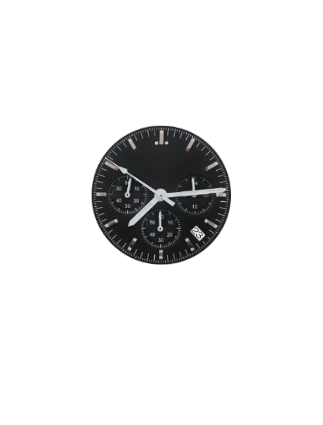
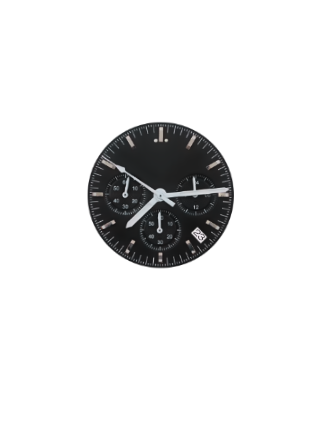
Speedmaster page - day #4 - milan bracelet and dials resize

Changed region(s): [[0.2477, 0.2753, 0.743, 0.6424]]

diff --git a/consSportSpeedmaster.html b/consSportSpeedmaster.html
@@ -122,6 +122,9 @@
                         <button class="option" data-value="14">
                             <img src="watchParts/7_Speedmaster/band/band_14.png" alt="Band 14" />
                         </button>
+                        <button class="option" data-value="15">
+                            <img src="watchParts/7_Speedmaster/band/band_15.png" alt="Band 15" />
+                        </button>
                     </div>
                 </div>
 
